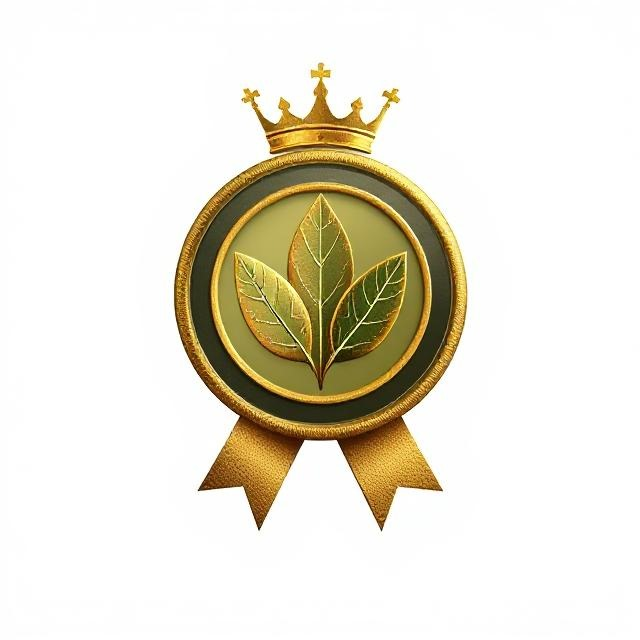
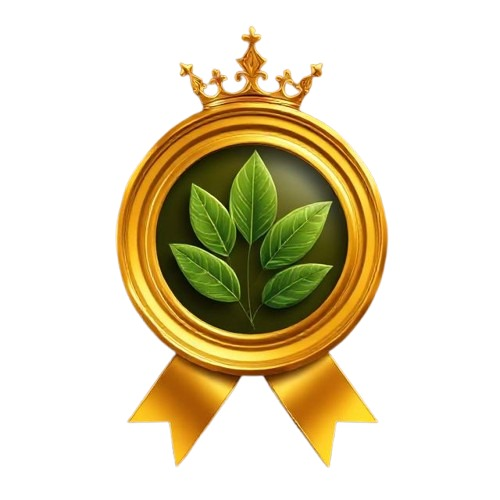
added badges in home page

Changed region(s): [[0.21, 0.03, 0.78, 0.93]]

diff --git a/frontend/src/pages/EcoCompass.js b/frontend/src/pages/EcoCompass.js
@@ -6,6 +6,7 @@ import { contentData } from '../constants/contentData';
 import LandingPage from '../components/LandingPage';
 import EcoCompassGuide from '../components/EcoCompassGuide';
 import Footer from '../components/Footer';
+import BadgeInfoSection from '../components/BadgeInfoSection';
 
 export const EcoCompass = () => {
   // Create refs for each section
@@ -80,6 +81,7 @@ export const EcoCompass = () => {
           ))}
           <CallToAction ref={callToActionRef} />
         </div>
+        <BadgeInfoSection ref={BadgeInfoSection}/>
         <EcoCompassGuide ref={ecoCompassGuideRef} />
       </div>
       <Footer ref={footerRef} />
